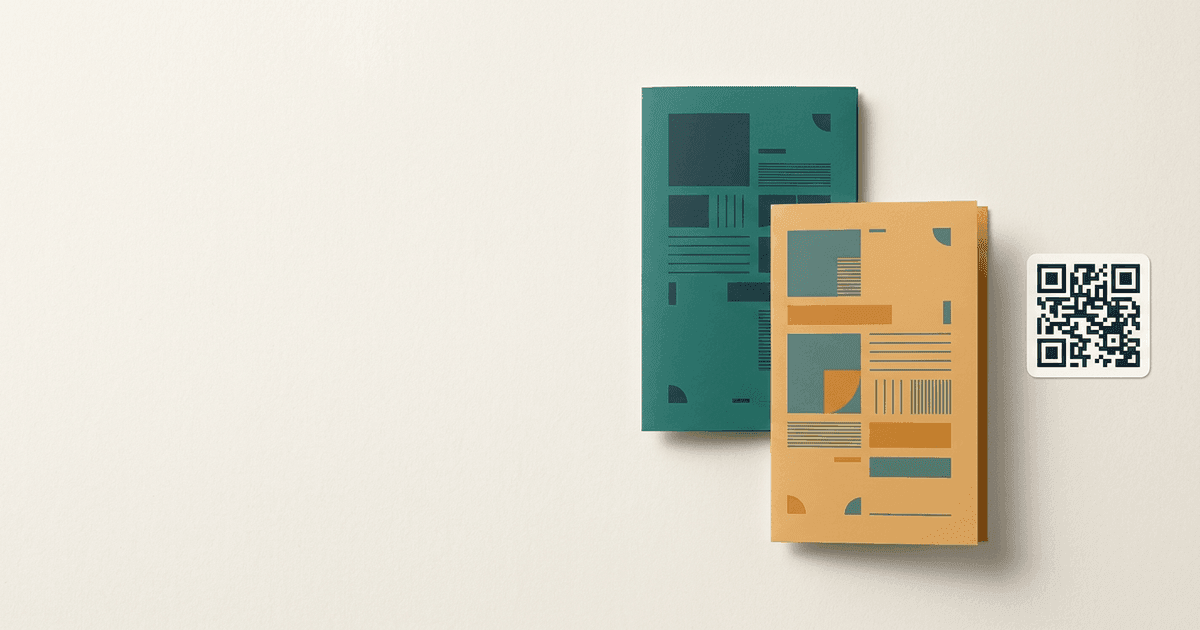
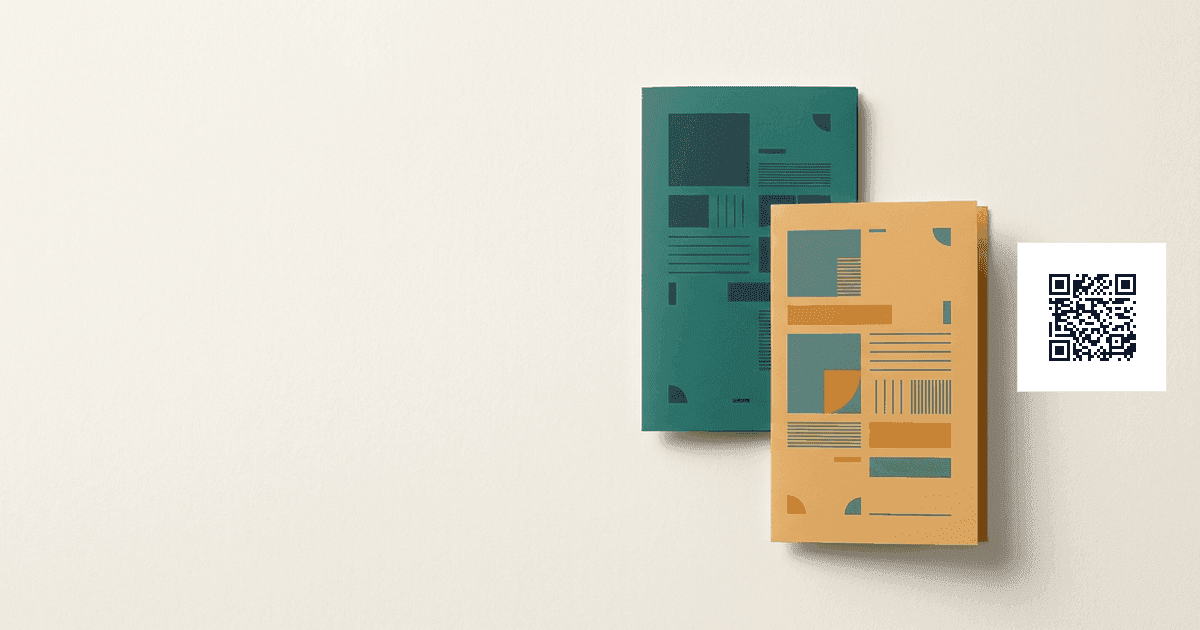
Vòng kiểm tra lỗi: sửa 8 lỗi tìm được + ảnh chia sẻ có QR thật
Lỗi đã sửa
1. package.json chứa dependencies chỉ để test (jsdom, sharp, jsqr, pngjs,
   html-validate) — gỡ hết, web chạy không cần npm install
2. qr-print.html: dòng link luôn hiện '—' khi in bằng file QR cố định
3. qr-print.html: nút Tải PNG ở nhánh ảnh cố định cho ra file trắng trơn
   (canvas chưa vẽ) → nay tải đúng file assets/qr/qr-brochure.png
4. Lightbox không đưa tiêu điểm vào hộp thoại và không trả lại ảnh vừa bấm
   (người dùng bàn phím/trình đọc màn hình bị mắc) → quản lý tiêu điểm + giữ Tab
5. Ảnh đang phóng to: bấm vào ảnh không thu nhỏ được, con trỏ chuột sai trạng thái
6. Link xem trước trong ô QR bị lưu vào localStorage và tự điền lại lần sau
   → dễ in nhầm mã dẫn sai chỗ. Nay không lưu, hiện cảnh báo, có nút
   'Về link chính thức', và link in chỉ kèm ?u= khi đang xem trước
7. check.mjs: không phát hiện mã QR cũ lệch link → thêm mục 3 kiểm tra
   assets/qr/*.svg khớp SITE_CONFIG.url; đồng thời trả exit code 1 khi có lỗi
8. generate-qr.mjs: điều kiện cảnh báo link mẫu sai (báo nhầm/bỏ sót);
   nén PNG khi máy có sharp (740x740: 8 KB thay vì ~25 KB)

Thêm
- assets/img/og-cover.png: nhúng mã QR THẬT (trước là hình trang trí) —
  chia sẻ link lên Facebook/Zalo là quét được; giảm 802 KB → 182 KB
- Không vẽ lại QR khi ở chế độ công khai (resize)
- 2 khoá i18n mới cho cảnh báo + nút khôi phục link

Kiểm chứng: 72/72 test jsdom (8 nhóm, gồm bấm từng nút, lightbox, trường hợp
biên, chống XSS), html-validate, i18n khớp VI/EN, ẩn nội bộ khi tắt JS,
[…]

Changed region(s): [[0.8325, 0.3619, 0.9867, 0.6333], [0.6167, 0.4524, 0.6475, 0.4825]]

diff --git a/assets/js/app.js b/assets/js/app.js
@@ -300,6 +300,7 @@
   /* --------------------------------------------------------- Lightbox */
   const lightbox = {
     el: null,
+    lastFocus: null,
     init() {
       this.el = $("#lightbox");
       if (!this.el) return;
@@ -309,14 +310,17 @@
       });
       $("[data-lb-prev]", this.el).addEventListener("click", () => this.step(-1));
       $("[data-lb-next]", this.el).addEventListener("click", () => this.step(1));
-      $("[data-lb-zoom]", this.el).addEventListener("click", () => {
-        $(".lb__stage", this.el).classList.toggle("is-zoomed");
+      $("[data-lb-zoom]", this.el).addEventListener("click", () => this.toggleZoom());
+      // bấm/gõ vào ảnh đang xem cũng thu nhỏ lại — thao tác quen thuộc của người dùng
+      $(".lb__stage", this.el).addEventListener("click", (e) => {
+        if (e.target.tagName === "IMG") this.toggleZoom();
       });
       document.addEventListener("keydown", (e) => {
         if (this.el.hidden) return;
         if (e.key === "Escape") close();
         if (e.key === "ArrowLeft") this.step(-1);
         if (e.key === "ArrowRight") this.step(1);
+        if (e.key === "Tab") this.trapFocus(e);
       });
       // vuốt ngang trên điện thoại
       let x0 = null;
@@ -335,20 +339,51 @@
     },
     open(index) {
       state.index = index;
+      this.lastFocus = document.activeElement;
       this.el.hidden = false;
       document.body.classList.add("no-scroll");
       this.paint();
+      // đưa tiêu điểm vào hộp thoại để bàn phím/trình đọc màn hình dùng được ngay
+      const target = $("[data-close]", this.el);
+      if (target) target.focus();
     },
     close() {
       this.el.hidden = true;
       document.body.classList.remove("no-scroll");
       $(".lb__stage", this.el).classList.remove("is-zoomed");
+      if (this.lastFocus && this.lastFocus.isConnected && typeof this.lastFocus.focus === "function") {
+        this.lastFocus.focus();
+      }
+      this.lastFocus = null;
+    },
+    /** Bật/tắt phóng to; luôn vẽ lại ảnh để con trỏ chuột đúng trạng thái. */
+    toggleZoom() {
+      const stage = $(".lb__stage", this.el);
+      const zoomed = stage.classList.toggle("is-zoomed");
+      const img = $("img", stage);
+      if (img) img.style.cursor = zoomed ? "zoom-out" : "zoom-in";
+    },
+    /** Giữ phím Tab trong hộp thoại, không cho chạy ra sau lưng. */
+    trapFocus(e) {
+      const focusables = $$(".lb__btn:not([hidden])", this.el).filter((el) => el.offsetParent !== null);
+      if (!focusables.length) return;
+      const first = focusables[0];
+      const last = focusables[focusables.length - 1];
+      const active = document.activeElement;
+      if (e.shiftKey && (active === first || !this.el.contains(active))) {
+        e.preventDefault();
+        last.focus();
+      } else if (!e.shiftKey && (active === last || !this.el.contains(active))) {
+        e.preventDefault();
+        first.focus();
+      }
     },
     step(dir) {
       const n = state.faces.length;
       if (!n) return;
       state.index = (state.index + dir + n) % n;
-      $(".lb__stage", this.el).classList.remove("is-zoomed");
+      const stage = $(".lb__stage", this.el);
+      stage.classList.remove("is-zoomed");
       this.paint();
     },
     paint() {
@@ -425,10 +460,12 @@
   /* --------------------------------------------------------------- QR */
   const qr = { url: "", init: false };
 
+  /* Link dùng để vẽ mã QR: ưu tiên ?u= (xem trước), còn lại LUÔN lấy link
+     chính thức trong config. Không dùng lại link xem trước của lần trước —
+     để nhóm không vô tình in ra mã QR dẫn sai chỗ. */
   function currentQrUrl() {
     const fromQuery = new URLSearchParams(location.search).get("u");
-    const saved = localStorage.getItem(URL_KEY);
-    return fromQuery || saved || CFG.url || location.href.split("?")[0];
+    return fromQuery || CFG.url || location.href.split("?")[0];
   }
 
   function renderQrSection() {
@@ -444,12 +481,17 @@
       input.value = currentQrUrl();
       input.addEventListener("input", () => {
         const value = input.value.trim();
-        if (value) {
-          localStorage.setItem(URL_KEY, value);
-          drawQr(value);
-        }
+        if (value) drawQr(value);   // chỉ xem trước tại chỗ, không lưu lại
       });
       qr.init = true;
+    }
+    const reset = $("#qrReset");
+    if (reset) {
+      reset.addEventListener("click", () => {
+        try { localStorage.removeItem(URL_KEY); } catch (err) { /* bỏ qua */ }
+        if (input) input.value = CFG.url || "";
+        drawQr(input ? input.value.trim() : CFG.url);
+      });
     }
     drawQr((input && input.value.trim()) || currentQrUrl());
   }
@@ -483,9 +525,15 @@
       link.textContent = text;
       link.href = text;
     }
+    // Trang in: chỉ truyền ?u= khi link khác link chính thức, để lúc in dùng
+    // đúng file QR cố định trong assets/qr (nét hơn hẳn bản vẽ bằng canvas).
+    const isOfficial = text === CFG.url;
     $$("[data-qr-print]").forEach((a) => {
-      a.href = `qr-print.html?u=${encodeURIComponent(text)}`;
+      a.href = isOfficial ? "qr-print.html" : `qr-print.html?u=${encodeURIComponent(text)}`;
     });
+    // Cảnh báo để không in nhầm mã QR của link xem trước
+    const warn = $("#qrWarn");
+    if (warn) warn.hidden = isOfficial;
   }
 
   function initQrControls() {
@@ -535,7 +583,10 @@
         }, 1600);
       });
 
-    window.addEventListener("resize", debounce(() => drawQr(qr.url), 200));
+    // chỉ vẽ lại khi đã có nội dung mã (chế độ công khai không có khối QR)
+    window.addEventListener("resize", debounce(() => {
+      if (qr.url) drawQr(qr.url);
+    }, 200));
   }
 
   /* ------------------------------------------------------------ Tiện ích */

diff --git a/qr-print.html b/qr-print.html
@@ -81,14 +81,18 @@
       }
       var input = document.getElementById("url");
       var canvas = document.getElementById("qr");
+      var fixedImg = document.getElementById("qrFixed");
       var linkText = document.getElementById("linkText");
-      var scale = 10;
+      var custom = params.get("u");      // link xem trước (nếu có)
+      var usingFixed = false;            // đang hiển thị file QR cố định?
 
+      /* Vẽ mã QR vào canvas (dùng làm phương án dự phòng + cho nút Tải PNG
+         khi bạn đang xem trước một link khác). */
       function render(value) {
         if (!value) return;
         try {
           var count = QRUtils.matrix(value).count;
-          scale = Math.max(4, Math.floor(360 / (count + 8)));
+          var scale = Math.max(4, Math.floor(360 / (count + 8)));
           QRUtils.toCanvas(canvas, value, { scale: scale, margin: 4, dark: "#0f172a", light: "#ffffff" });
         } catch (err) {
           linkText.textContent = "⚠ " + err.message;
@@ -98,46 +102,60 @@
         document.title = "Mã QR — " + value;
       }
 
-      input.value = url;
-
-      /* Mặc định in đúng file QR cố định trong assets/qr (đã xuất bằng npm run qr).
-         Chỉ vẽ lại bằng canvas khi bạn nhập link khác để xem trước. */
-      var fixedImg = document.getElementById("qrFixed");
-      var custom = params.get("u");
-      function useFixed() {
-        if (custom) return false;
-        return !!(cfg.url && url === cfg.url);
-      }
+      /* Mặc định in đúng file QR cố định trong assets/qr (đã xuất bằng npm run qr)
+         để nét nhất. Chỉ vẽ bằng canvas khi bạn xem trước link khác. */
       function showFixed() {
-        canvas.hidden = true;
+        if (usingFixed) return;
+        usingFixed = true;
+        render(url);            // vẫn vẽ canvas để nút Tải PNG luôn có nội dung
+        linkText.textContent = url;
         fixedImg.hidden = false;
+        canvas.hidden = true;
       }
-      fixedImg.addEventListener("error", function () {   // chưa có file → vẽ bằng canvas
-        fixedImg.hidden = true; canvas.hidden = false; render(url);
-      });
-      if (useFixed()) {
-        showFixed();
-      } else {
+      function showCanvas(value) {
+        usingFixed = false;
+        fixedImg.hidden = true;
         canvas.hidden = false;
-        render(url);
+        render(value);
       }
-      input.addEventListener("input", function () {
-        custom = input.value.trim() === cfg.url ? null : "1";
-        if (useFixed()) { showFixed(); }
-        else { fixedImg.hidden = true; canvas.hidden = false; render(input.value.trim()); }
+      function wantsFixed(value) {
+        return !custom && !!cfg.url && value === cfg.url;
+      }
+
+      fixedImg.addEventListener("error", function () {
+        // chưa có file QR cố định → quay về vẽ bằng canvas
+        if (usingFixed) showCanvas(url);
       });
+
+      input.value = url;
+      if (wantsFixed(url)) showFixed(); else showCanvas(url);
 
       input.addEventListener("input", function () {
         var value = input.value.trim();
-        if (value) render(value);
+        custom = value === cfg.url ? null : "1";
+        if (!value) return;                       // gõ dở thì giữ nguyên mã đang có
+        if (wantsFixed(value)) showFixed(); else showCanvas(value);
       });
+
       document.getElementById("print").addEventListener("click", function () { window.print(); });
       document.getElementById("png").addEventListener("click", function () {
+        if (usingFixed) {
+          // tải đúng file QR cố định — bản in nét nhất
+          var a = document.createElement("a");
+          a.href = fixedImg.getAttribute("src");
+          a.download = "qr-brochure.png";
+          document.body.appendChild(a);
+          a.click();
+          a.remove();
+          return;
+        }
         canvas.toBlob(function (blob) {
           var a = document.createElement("a");
           a.href = URL.createObjectURL(blob);
           a.download = "qr-brochure.png";
+          document.body.appendChild(a);
           a.click();
+          a.remove();
           setTimeout(function () { URL.revokeObjectURL(a.href); }, 1500);
         }, "image/png");
       });

diff --git a/assets/js/config.js b/assets/js/config.js
@@ -140,7 +140,9 @@ window.SITE_CONFIG = {
       "qr.scan": "Quét để mở brochure",
       "qr.fixedNote": "Bản QR cố định để dán vào brochure: assets/qr/qr-brochure.png (để in) và .svg (nét vô hạn).",
       "qr.urlLabel": "Link đang gán trong mã QR",
-      "qr.urlHelp": "Đổi link ở đây chỉ để xem trước; muốn lưu cố định thì sửa assets/js/config.js rồi chạy npm run qr.",
+      "qr.urlHelp": "Đổi link ở đây chỉ để xem trước (không lưu lại). Muốn đổi vĩnh viễn: sửa assets/js/config.js rồi chạy npm run qr.",
+      "qr.warnPreview": "Đang xem trước một link khác — đừng in mã này lên brochure.",
+      "qr.reset": "Về link chính thức",
       "qr.downloadPng": "Tải PNG",
       "qr.downloadSvg": "Tải SVG",
       "qr.copy": "Sao chép link",
@@ -193,7 +195,9 @@ window.SITE_CONFIG = {
       "qr.scan": "Scan to open the brochure",
       "qr.fixedNote": "Fixed QR files to place on the brochure: assets/qr/qr-brochure.png (for print) and .svg (vector).",
       "qr.urlLabel": "Link encoded in the QR code",
-      "qr.urlHelp": "Changing it here is only a preview; to make it permanent edit assets/js/config.js and run npm run qr.",
+      "qr.urlHelp": "Changing it here is only a temporary preview. To change it for good: edit assets/js/config.js and run npm run qr.",
+      "qr.warnPreview": "You are previewing a different link — do not print this code on the brochure.",
+      "qr.reset": "Back to official link",
       "qr.downloadPng": "Download PNG",
       "qr.downloadSvg": "Download SVG",
       "qr.copy": "Copy link",

diff --git a/index.html b/index.html
@@ -123,6 +123,11 @@
           </label>
           <p class="field__help" data-i18n="qr.urlHelp">Đổi link ở đây chỉ để xem trước; muốn lưu cố định thì sửa assets/js/config.js rồi chạy npm run qr.</p>
 
+          <p class="qrWarn" id="qrWarn" hidden>
+            <span data-i18n="qr.warnPreview">Đang xem trước một link khác — đừng in mã này lên brochure.</span>
+            <button type="button" class="btn btn--ghost btn--sm" id="qrReset" data-i18n="qr.reset">Về link chính thức</button>
+          </p>
+
           <p class="qrCard__link"><a id="qrLink" href="#" target="_blank" rel="noopener">—</a></p>
 
           <div class="btnRow">

diff --git a/assets/css/style.css b/assets/css/style.css
@@ -331,6 +331,13 @@ html:not(.js) [data-qr-cta] { display: none !important; }
   border-radius: var(--radius-sm);
 }
 .toolsNote__exit { margin-left: auto; font-weight: 600; white-space: nowrap; }
+.qrWarn {
+  display: flex; flex-wrap: wrap; align-items: center; gap: .5rem .8rem;
+  margin: 0 0 .8rem; padding: .5rem .75rem; font-size: .78rem;
+  background: var(--accent-soft); color: color-mix(in srgb, var(--accent) 68%, var(--ink));
+  border: 1px solid color-mix(in srgb, var(--accent) 45%, transparent);
+  border-radius: var(--radius-sm);
+}
 .fixedQr {
   margin: 0 0 .9rem; padding: .5rem .75rem; font-size: .78rem;
   background: var(--brand-soft); color: var(--brand-strong);

diff --git a/tools/README-qr.md b/tools/README-qr.md
@@ -31,15 +31,24 @@ Tuỳ chọn: `--url --out --name --scale --margin --dark --light --ecc`
 ## 3. Kiểm tra trước khi nộp
 
 ```bash
-node tools/check.mjs      # xem link QR, ảnh brochure còn thiếu, thông tin thành viên
+node tools/check.mjs      # link QR, mã QR có lệch link không, ảnh brochure còn thiếu, thông tin nhóm
+npm run live              # link đã thật sự mở được chưa (cần internet, chạy ở máy bạn)
 ```
+
+`check.mjs` thoát với mã lỗi **1** nếu còn mục ✖ — tiện để cắm vào công cụ tự động hoá.
 
 1. Mở `qr-print.html`, in ra giấy nháp rồi quét thử bằng 2–3 điện thoại khác nhau.
 2. Thử quét trong điều kiện thật: ánh sáng lớp học, mã hơi cong, khoảng cách 15–30 cm.
 3. Quét xong phải mở đúng trang web (không bị chuyển hướng), và trên điện thoại phải xem được cả 2 mặt brochure.
 4. Nhớ dùng link **https** — nếu trang chưa có HTTPS, một số máy sẽ cảnh báo.
 
-## 4. Ghi chú kỹ thuật
+## 4. Ảnh xem trước khi chia sẻ link
+
+`assets/img/og-cover.png` (1200 × 630) là ảnh hiện ra khi dán link lên Facebook/Zalo/Messenger.
+Trong ảnh **đã nhúng sẵn mã QR thật** trỏ về đúng trang — người xem thấy ảnh là quét được luôn.
+Nếu bạn đổi link, nhớ tạo lại ảnh này (hoặc chỉ cần đổi `assets/img/og-cover.png` bằng ảnh khác).
+
+## 5. Ghi chú kỹ thuật
 
 - Mã QR dùng thư viện `vendor/qrcode.js` ([qrcode-generator](https://github.com/kazuhikoarase/qrcode-generator), giấy phép MIT), chạy hoàn toàn phía trình duyệt — không cần internet, không gửi dữ liệu đi đâu.
 - `tools/generate-qr.mjs` cũng dùng cùng thư viện đó trong Node, kèm bộ mã hoá PNG viết tay nên **không cần `npm install`**.

diff --git a/docs/HUONG-DAN.md b/docs/HUONG-DAN.md
@@ -80,6 +80,7 @@ fileNames: {
 - [ ] 4 thành viên hiện đủ tên + MSSV, đúng chính tả (nhớ dấu tiếng Việt).
 - [ ] Quét mã QR từ **bản in giấy** → mở đúng trang (thử 2 điện thoại, 2 app camera khác nhau).
 - [ ] `npm run live` báo HTTP 200 — link QR thật sự mở được.
+- [ ] `npm run check` không còn mục ✖ nào (báo cả trường hợp mã QR lệch link).
 - [ ] Không còn chữ “chưa có ảnh” nào trên trang.
 - [ ] `npm run check` báo “Mọi thứ sẵn sàng!”.
 
@@ -107,6 +108,10 @@ Xem `tools/README-qr.md` — thường là do in quá nhỏ, mất vùng trắng
 
 **Vì sao mã QR quét không mở được?**
 Kiểm tra theo thứ tự: (0) repo còn ở chế độ **Private** thì GitHub Pages không chạy trên gói miễn phí — đổi sang Public hoặc dùng GitHub Pro / Netlify – Vercel; (1) `npm run live` xem link đã lên mạng chưa — nếu chưa thì bật GitHub Pages; (2) link trong `assets/js/config.js` có khớp link thật không, nếu khác thì chạy lại `npm run qr`; (3) mã in có bị nhỏ quá (< 2 cm) hoặc mất vùng trắng quanh mã không.
+
+**Nhập link xem trước trong ô QR rồi lỡ tay in?**
+Trang chỉ hiện cảnh báo "Đang xem trước một link khác — đừng in mã này", và link xem trước **không được lưu lại** —
+mở lại trang là tự về link chính thức. Bấm **Về link chính thức** để quay lại ngay.
 
 **Sao tôi mở link mà không thấy nút tải QR?**
 Đúng như thiết kế — công cụ chỉ hiện ở chế độ nội bộ: thêm `?tools=1` vào cuối link (ví dụ `.../index.html?tools=1`).

diff --git a/README.md b/README.md
@@ -72,9 +72,13 @@ Nếu bạn dùng link khác (domain riêng, Netlify, Vercel…): sửa `SITE_CO
 | `assets/qr/qr-brochure.svg` | **In brochure** — vector, phóng to bao nhiêu cũng nét |
 | `assets/qr/qr-brochure.png` | 740 × 740 px — dán vào Word/slide, đăng mạng xã hội |
 | `qr-print.html` | Mở trên web (nút *Trang in QR*) → có sẵn khung in A4 |
+| `assets/img/og-cover.png` | Ảnh xem trước khi chia sẻ link lên Facebook/Zalo — **có sẵn mã QR thật trong ảnh** |
 
-Cả hai file đều được kiểm chứng: **giải mã lại ra đúng link** `https://nhinguyen21604.github.io/Brochure/`.
+Cả 3 file QR đều được kiểm chứng: **giải mã lại ra đúng link** `https://nhinguyen21604.github.io/Brochure/`.
 Chi tiết cách in & kiểm tra: `tools/README-qr.md`.
+
+> `npm run check` cũng kiểm tra việc này: nếu bạn đổi link trong `config.js` mà chưa chạy lại `npm run qr`,
+> nó sẽ báo **mã QR lệch link** (và thoát với mã lỗi 1) để bạn không in nhầm mã dẫn sai chỗ.
 
 ## 5. Cấu trúc dự án
 
